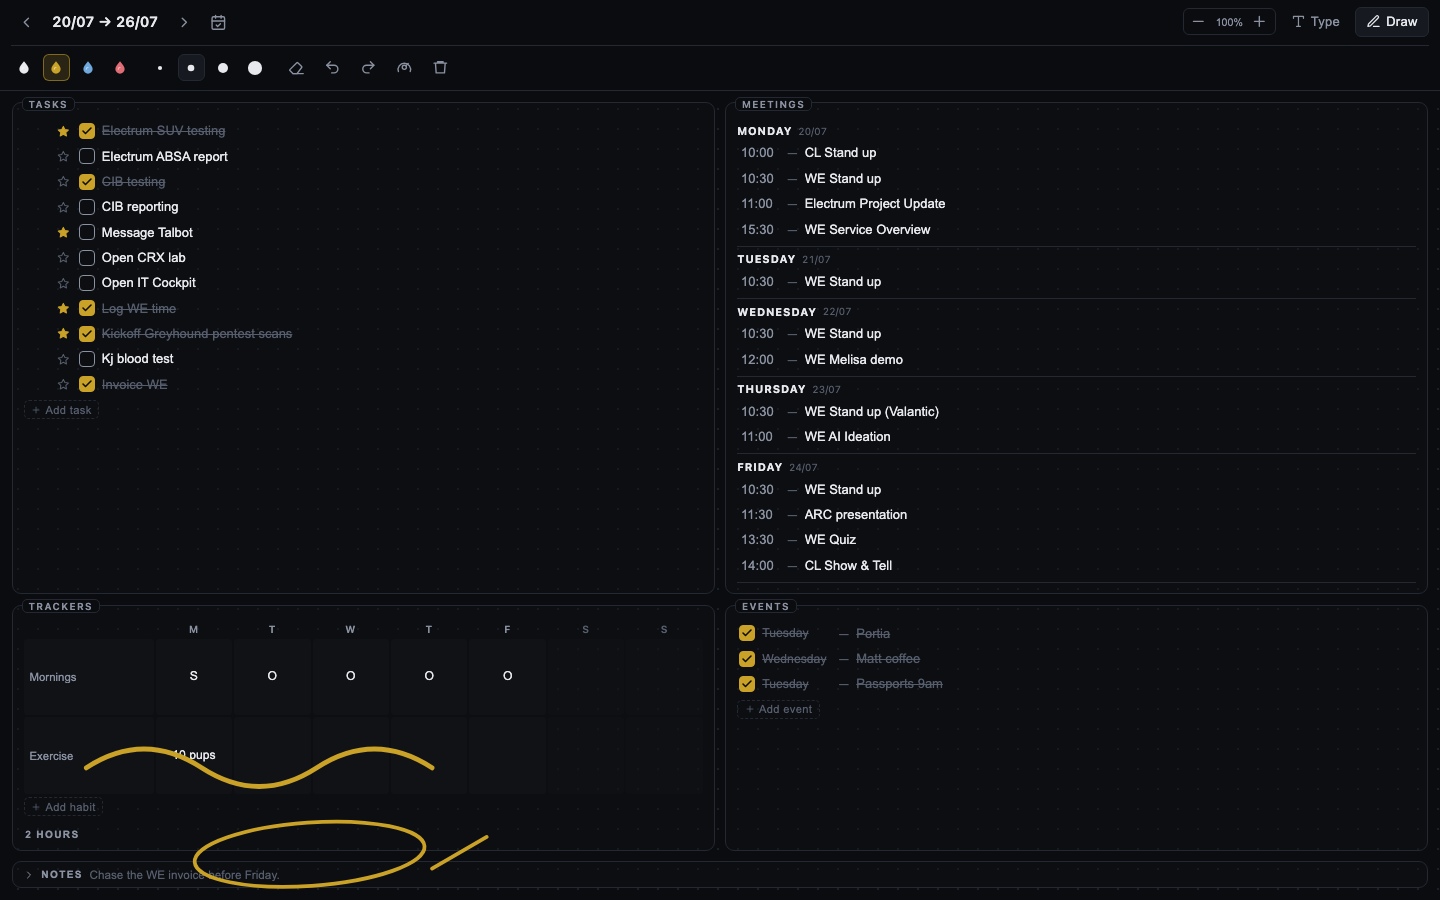
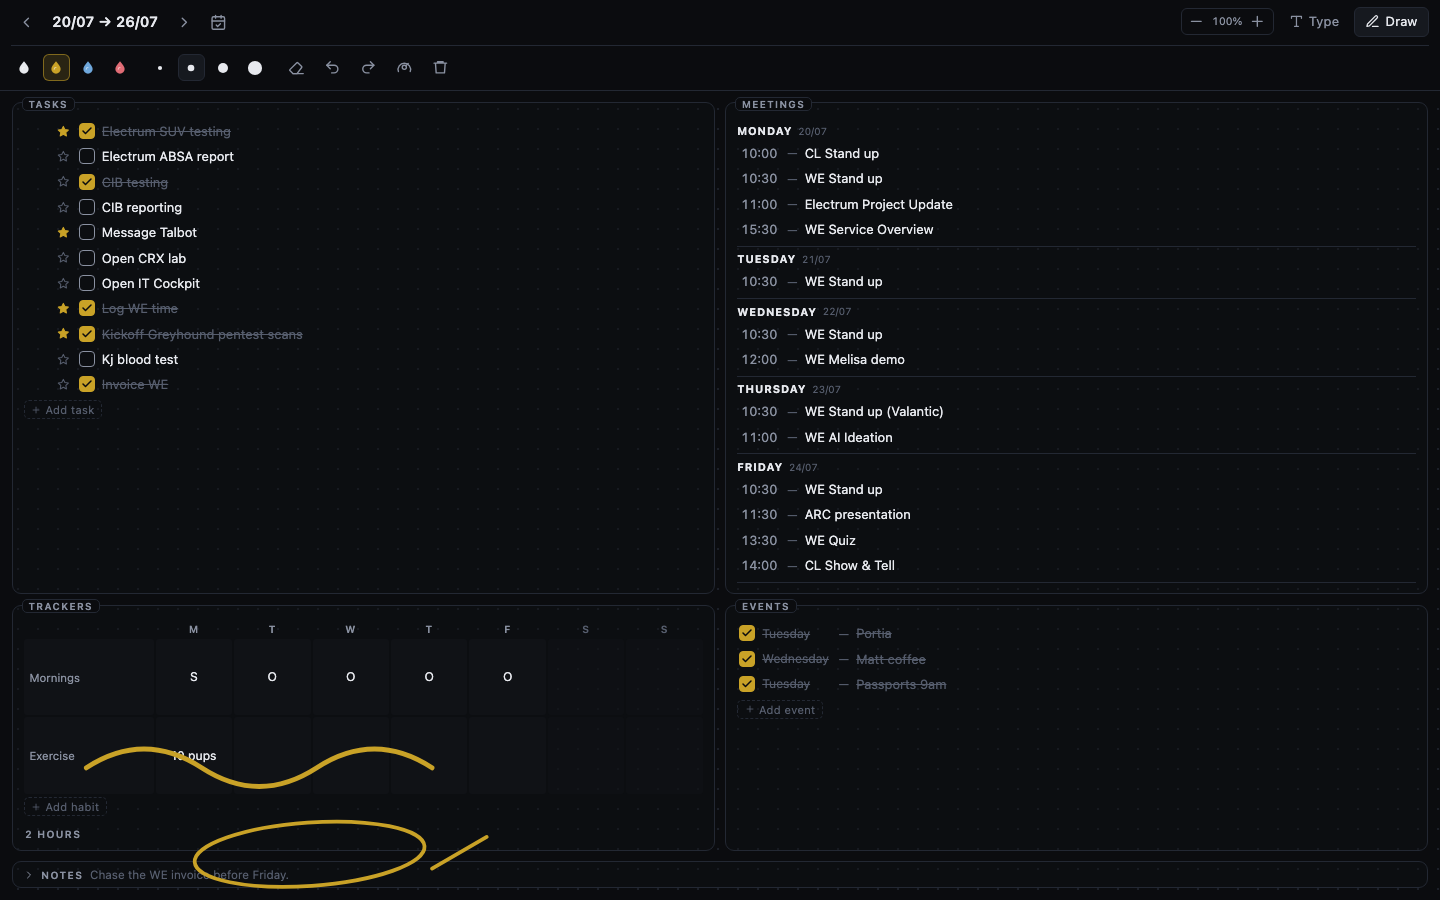
Drop Obsidian's minimum tap size, and halve the time blocks
The checkbox was square in isolation and a rectangle in the app: Obsidian
gives buttons and fields a minimum tap size, and on mobile that minimum is
taller than a 16px checkbox is wide, so the box stretched. Bullet sets its
own sizes on these controls, so the minimums are cleared for them. Checked
by forcing those minimums on in the harness — every control now measures
square with them applied, which is the condition the plugin actually runs
in and the one the harness was missing.

Time blocks are half their previous width and centred in their column, so
the space they give up becomes the gaps and the row still spans the grid.
45px to 22px, which also brings the whole tracker back inside its third of
the page without scrolling.

diff --git a/styles.css b/styles.css
@@ -63,6 +63,21 @@
 	--bl-done: #565d6d;
 }
 
+/* Obsidian gives buttons and fields a minimum tap size, which on mobile is
+   taller than these controls are wide — that is what turned the square
+   checkbox into a rectangle. Bullet sets its own sizes, so the minimums go. */
+.bullet-view button,
+.bullet-view input,
+.bullet-view textarea {
+	min-width: 0;
+	min-height: 0;
+	font-family: inherit;
+}
+
+.bullet-view button {
+	line-height: 1;
+}
+
 /* Small controls are square: equal sides, and aspect-ratio to hold it even
    when a flex row would rather stretch them. */
 .bullet-view .bl-check,
@@ -76,6 +91,8 @@
 .bullet-view .bl-day-add {
 	aspect-ratio: 1;
 	flex: 0 0 auto;
+	min-width: 0;
+	min-height: 0;
 }
 
 /* Every icon in the page is an inline SVG Bullet draws itself. */
@@ -846,7 +863,11 @@
 }
 
 .bullet-view .bl-time-block {
-	width: 100%;
+	/* Half the width of the column, centred: the blocks shrink and the space
+	   they give up becomes the gaps, so the row still spans the grid. */
+	width: 50%;
+	max-width: 1.9em;
+	justify-self: center;
 	aspect-ratio: 1;
 	height: auto;
 	padding: 0;
